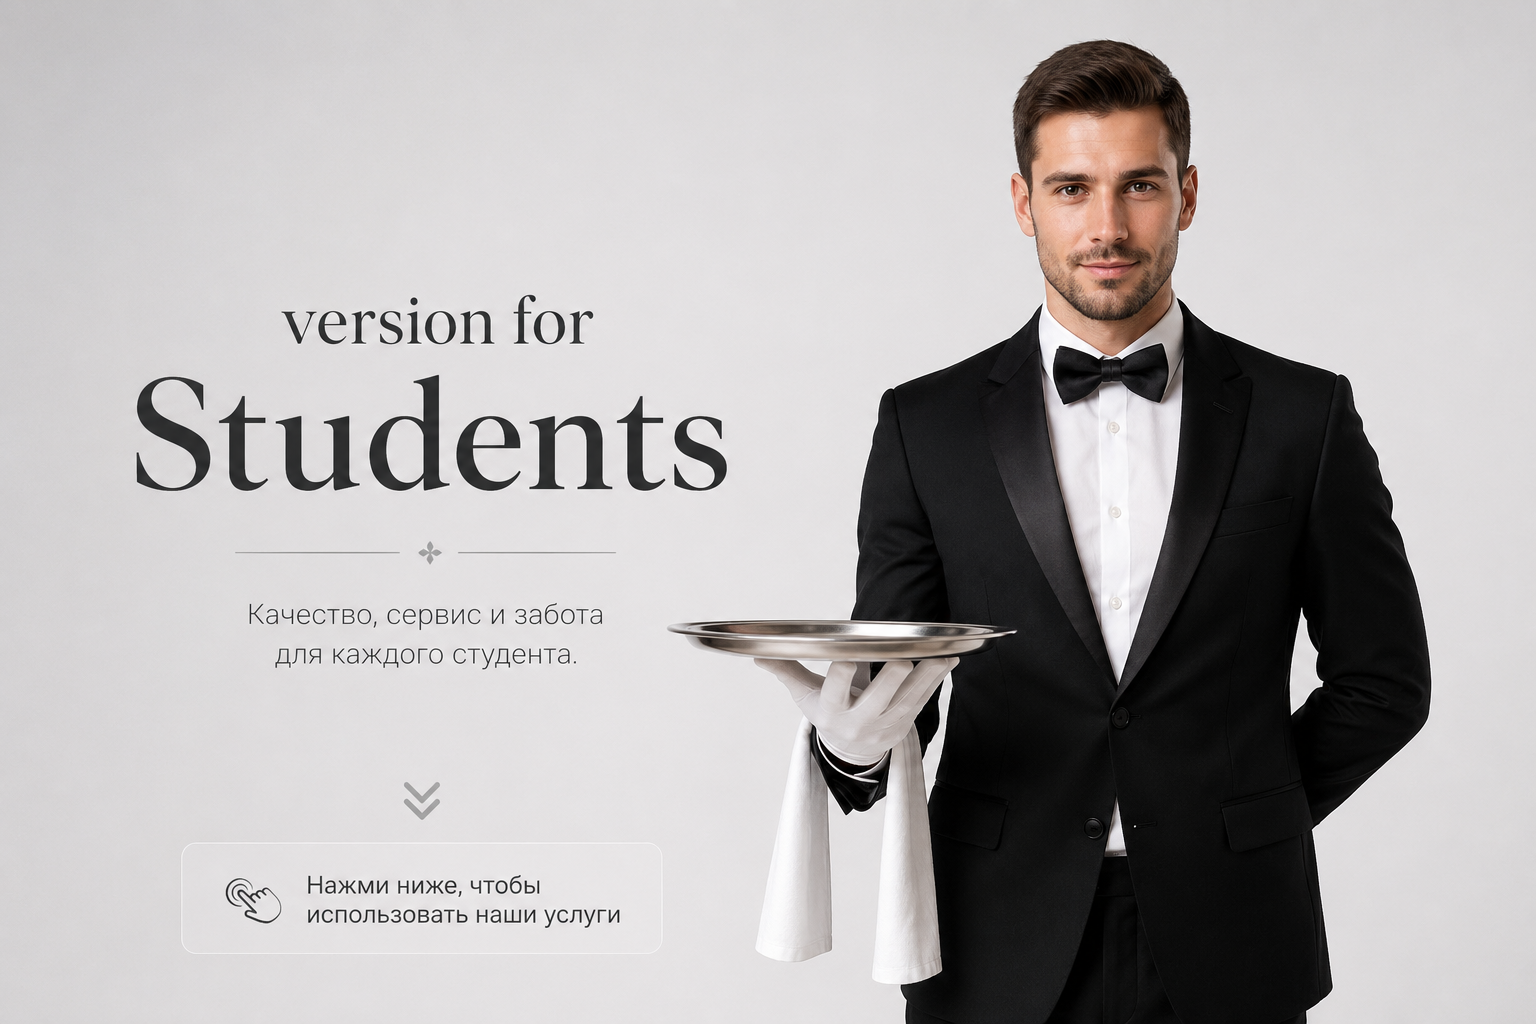
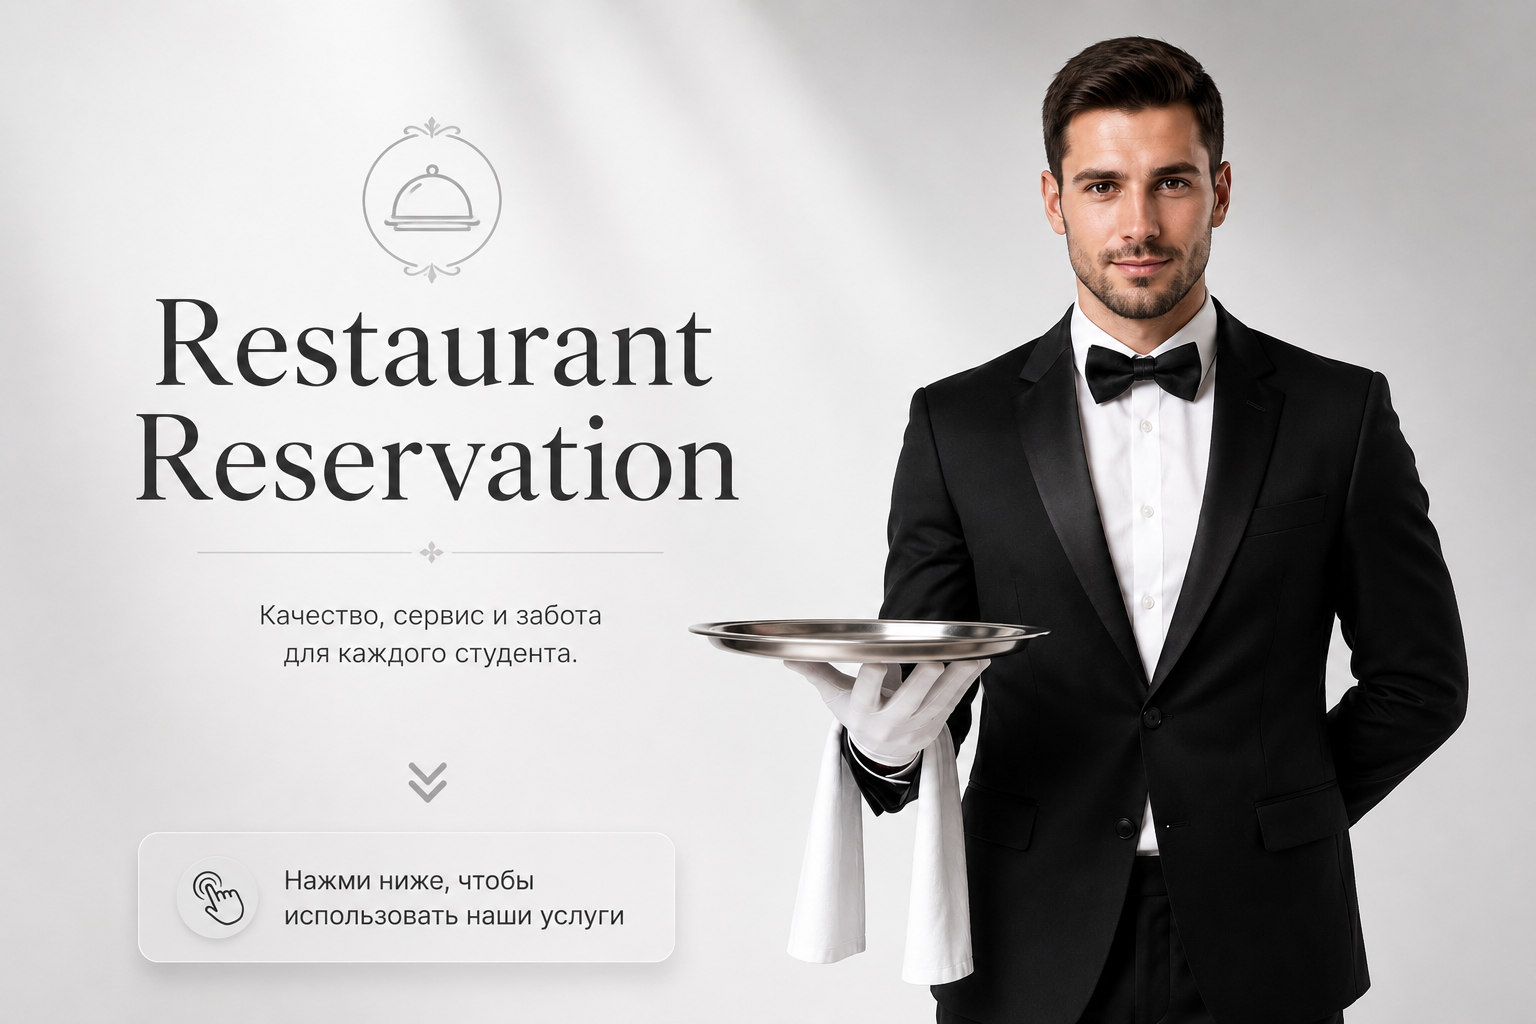
починил и сломал старт

diff --git a/app/handlers/start.py b/app/handlers/start.py
@@ -1,40 +1,80 @@
-from pathlib import Path
+from pathlib import Path
 
-from aiogram import Router
-from aiogram.filters import Command, CommandStart
-from aiogram.types import Message, FSInputFile, InlineKeyboardMarkup, InlineKeyboardButton
+from aiogram import F, Router
+from aiogram.filters import CommandStart
+from aiogram.fsm.context import FSMContext
+from aiogram.types import (
+    FSInputFile,
+    InlineKeyboardButton,
+    InlineKeyboardMarkup,
+    KeyboardButton,
+    Message,
+    ReplyKeyboardMarkup,
+)
+from sqlalchemy import select
 
-from app.keyboards.reply import main_menu_kb
+from app.db.models import User, async_session
+from app.handlers.register import RegisterState, register_router
 
 router = Router()
+router.include_router(register_router)
+
 BASE_DIR = Path(__file__).resolve().parent.parent
 photo_path = BASE_DIR / "img" / "images.png"
 
[email redacted](Command("start"))
-async def start(message: Message):
-    keyboard = InlineKeyboardMarkup(
-        inline_keyboard=[
-            [InlineKeyboardButton(text="🍽 Забронировать столик", callback_data="btn1")],
-            [InlineKeyboardButton(text="📋 Мои бронирования", callback_data="btn2")],
-            [InlineKeyboardButton(text="ℹ️ О ресторане", callback_data="btn3")]
-        ]
+
+def get_start_keyboard() -> ReplyKeyboardMarkup:
+    return ReplyKeyboardMarkup(
+        keyboard=[
+            [KeyboardButton(text="🍽 Забронировать столик")],
+            [KeyboardButton(text="📋 Мои бронирования"), KeyboardButton(text="ℹ️ О ресторане")],
+            [KeyboardButton(text="ℹ️ Помощь")],
+        ],
+        resize_keyboard=True,
+        one_time_keyboard=False,
     )
+
+
+async def get_user_by_telegram_id(telegram_id: int):
+    async with async_session() as session:
+        result = await session.scalars(select(User).where(User.telegram_id == telegram_id))
+        return result.first()
 
 
 @router.message(CommandStart())
-async def command_start_handler(message: Message) -> None:
-    await message.answer(
-        "Привет! Я бот для бронирования столиков в ресторане.\n"
-        "Выберите действие:",
-        reply_markup=main_menu_kb(),
-    )
+async def command_start_handler(message: Message, state: FSMContext) -> None:
+    user = await get_user_by_telegram_id(message.from_user.id)
+    if not user:
+        await state.set_state(RegisterState.name)
+        await message.answer(
+            "Привет! Сначала нужно зарегистрироваться. Введите, пожалуйста, своё имя."
+        )
+        return
+
+    keyboard = get_start_keyboard()
+    caption = "Добро пожаловать! Выберите действие:"
+
     if photo_path.exists():
         photo = FSInputFile(str(photo_path))
         await message.answer_photo(
             photo=photo,
-            reply_markup=keyboard
+            caption=caption,
+            reply_markup=keyboard,
         )
     else:
-        await message.answer(
-            reply_markup=keyboard
-        )
+        await message.answer(caption, reply_markup=keyboard)
+
+
[email redacted](F.text == "ℹ️ Помощь")
+async def help_handler(message: Message):
+    await message.answer(
+        "ℹ️ <b>Помощь</b>\n"
+        "━━━━━━━━━━━━━━\n\n"
+        "👤 <b>Поддержка</b>\n"
+        "📩 @ofi_piko\n\n"
+        "🕘 <b>График работы</b>\n"
+        "• 10:00 — 01:00 (UTC+5)\n\n"
+        "💡 <i>Мы обязательно ответим вам в рабочее время.</i>\n\n"
+        "❤️ Спасибо, что пользуетесь нашим ботом!",
+        parse_mode="HTML",
+    )

diff --git a/app/handlers/register.py b/app/handlers/register.py
@@ -1,0 +1,81 @@
+from aiogram import F, Router
+from aiogram.fsm.context import FSMContext
+from aiogram.fsm.state import State, StatesGroup
+from aiogram.types import KeyboardButton, Message, ReplyKeyboardMarkup, ReplyKeyboardRemove
+from sqlalchemy import select
+
+from app.db.models import User, async_session
+
+register_router = Router()
+
+
+class RegisterState(StatesGroup):
+    name = State()
+    phone = State()
+
+
+async def get_user_by_telegram_id(telegram_id: int):
+    async with async_session() as session:
+        result = await session.scalars(select(User).where(User.telegram_id == telegram_id))
+        return result.first()
+
+
+async def save_user(telegram_id: int, full_name: str, phone: str):
+    async with async_session() as session:
+        user = await session.scalar(select(User).where(User.telegram_id == telegram_id))
+        if user:
+            user.full_name = full_name
+            user.username = phone
+        else:
+            session.add(
+                User(
+                    telegram_id=telegram_id,
+                    full_name=full_name,
+                    username=phone,
+                    role="user",
+                )
+            )
+        await session.commit()
+
+
+@register_router.message(RegisterState.name)
+async def register_name_handler(message: Message, state: FSMContext):
+    await state.update_data(full_name=message.text)
+    keyboard = ReplyKeyboardMarkup(
+        keyboard=[[KeyboardButton(text="Отправить номер", request_contact=True)]],
+        resize_keyboard=True,
+        one_time_keyboard=True,
+    )
+    await state.set_state(RegisterState.phone)
+    await message.answer(
+        "Спасибо! Теперь отправьте, пожалуйста, свой номер телефона.",
+        reply_markup=keyboard,
+    )
+
+
+@register_router.message(RegisterState.phone, F.content_type == "contact")
+async def register_phone_contact_handler(message: Message, state: FSMContext):
+    phone = message.contact.phone_number
+    data = await state.get_data()
+    await save_user(message.from_user.id, data["full_name"], phone)
+    await state.clear()
+    await message.answer(
+        f"Регистрация завершена, {data['full_name']}! Теперь вы можете забронировать столик.",
+        reply_markup=ReplyKeyboardRemove(),
+    )
+
+
+@register_router.message(RegisterState.phone)
+async def register_phone_text_handler(message: Message, state: FSMContext):
+    phone = message.text.strip()
+    if not phone:
+        await message.answer("Пожалуйста, отправьте номер телефона или нажмите кнопку для контактных данных.")
+        return
+
+    data = await state.get_data()
+    await save_user(message.from_user.id, data["full_name"], phone)
+    await state.clear()
+    await message.answer(
+        f"Регистрация завершена, {data['full_name']}! Теперь вы можете забронировать столик.",
+        reply_markup=ReplyKeyboardRemove(),
+    )

diff --git a/main.py b/main.py
@@ -10,8 +10,7 @@ from aiogram.fsm.storage.memory import MemoryStorage
 
 from app.handlers.start import router as start_router
 from app.handlers.booking import router as booking_router
-# !!! Доработать - потом подключить
-# from app.handlers.my_bookings import router as my_bookings_router
+
 
 setup_logger()
 logger = logging.getLogger(__name__)